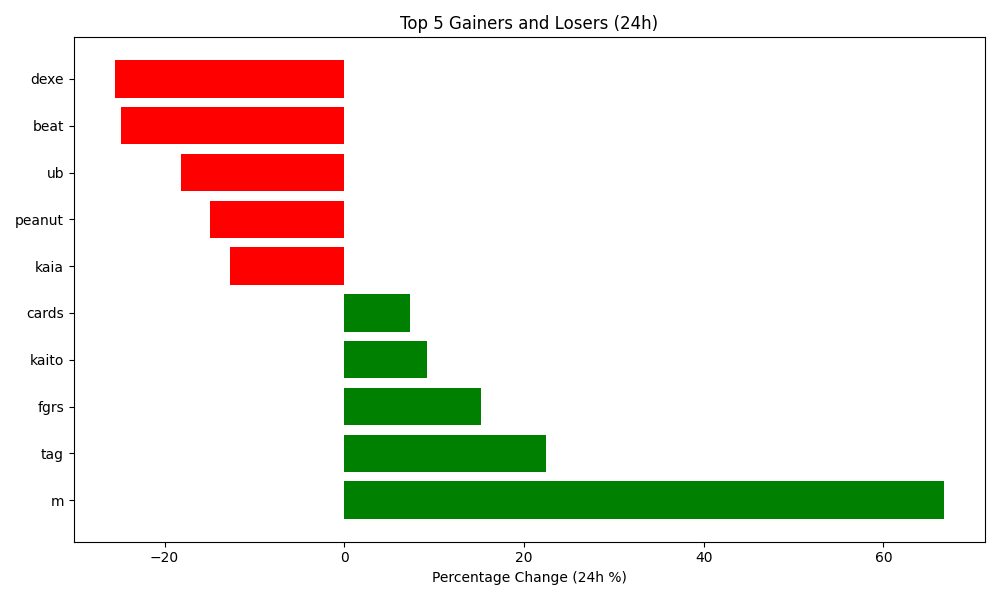
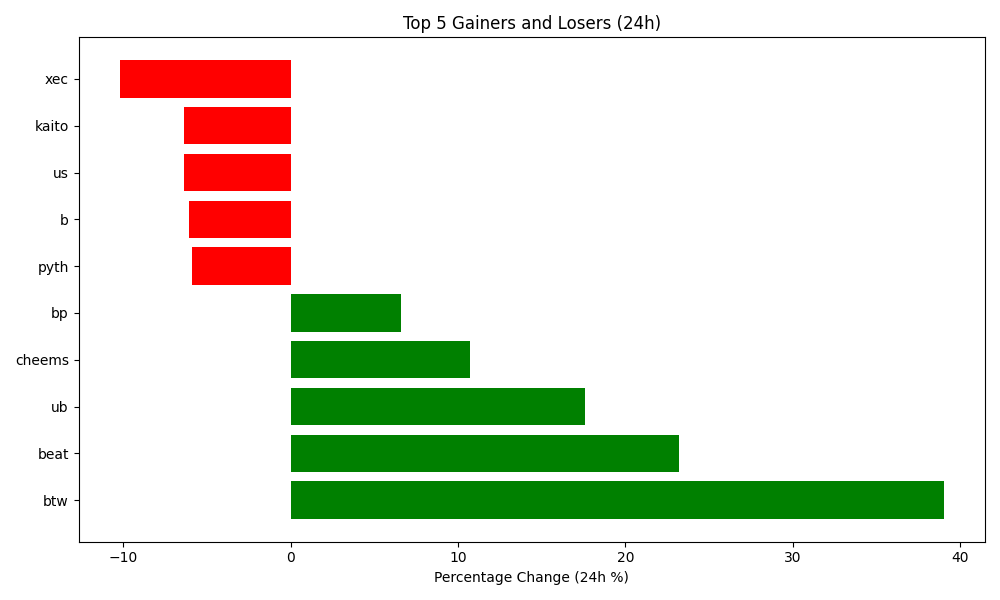
Auto-update crypto data and plot

diff --git a/README.md b/README.md
@@ -4,7 +4,7 @@ Author: Hitesh Agrawal
 This repository automatically tracks the top 5 gaining, top 5 losing, and top 5 highest volume cryptocurrencies in the last 24 hours using the CoinGecko API, Python, Matplotlib, and GitHub Actions updates the below content everyday at midnight.
 
 <!-- START_DYNAMIC_CONTENT -->
-Last updated: 2026-07-28 01:51 UTC
+Last updated: 2026-07-29 01:54 UTC
 
 ![Crypto Movers Plot](crypto_movers_plot.png)
 
@@ -12,33 +12,33 @@ Last updated: 2026-07-28 01:51 UTC
 
 | Rank | Coin | Price Change (24h %) | Volume (USD) | Current Price (USD) |
 | :--: | :--: | :------------------: | :----------: | :-----------------: |
-| 1 | m | 66.70% | $383,597 | $1.2900 |
-| 2 | tag | 22.40% | $8,078,138 | $0.0014 |
-| 3 | fgrs | 15.20% | $667 | $31.5100 |
-| 4 | kaito | 9.20% | $81,377,051 | $1.3100 |
-| 5 | cards | 7.30% | $4,044,174 | $0.1238 |
+| 1 | btw | 39.04% | $18,901,928 | $0.0889 |
+| 2 | beat | 23.20% | $47,704,871 | $3.5100 |
+| 3 | ub | 17.58% | $16,346,409 | $0.1412 |
+| 4 | cheems | 10.72% | $1,485,664 | $0.0000 |
+| 5 | bp | 6.58% | $1,631,911 | $0.4586 |
 
 
 **👇 Top 5 Losers (24h)**
 
 | Rank | Coin | Price Change (24h %) | Volume (USD) | Current Price (USD) |
 | :--: | :--: | :------------------: | :----------: | :-----------------: |
-| 1 | dexe | -25.50% | $238,570,929 | $2.9200 |
-| 2 | beat | -24.90% | $17,042,096 | $2.8800 |
-| 3 | ub | -18.20% | $13,386,987 | $0.1200 |
-| 4 | peanut | -14.90% | $2 | $0.0006 |
-| 5 | kaia | -12.70% | $8,218,651 | $0.0260 |
+| 1 | xec | -10.21% | $13,699,676 | $0.0000 |
+| 2 | kaito | -6.40% | $83,608,579 | $1.2300 |
+| 3 | us | -6.37% | $5,101,484 | $0.0426 |
+| 4 | b | -6.09% | $6,364,375 | $0.1692 |
+| 5 | pyth | -5.92% | $16,846,563 | $0.0406 |
 
 
 **💎 Top 5 by Trade Volume (24h)**
 
 | Rank | Coin | Price Change (24h %) | Volume (USD) | Current Price (USD) |
 | :--: | :--: | :------------------: | :----------: | :-----------------: |
-| 1 | usdt | 0.00% | $45,819,623,800 | $0.9992 |
-| 2 | btc | -2.80% | $26,938,517,272 | $63,234.0000 |
-| 3 | usdc | 0.00% | $12,503,987,021 | $0.9996 |
-| 4 | eth | -3.70% | $12,165,546,407 | $1,876.9600 |
-| 5 | sol | -3.80% | $1,838,046,220 | $73.2800 |
+| 1 | usdt | -0.02% | $40,597,841,478 | $0.9988 |
+| 2 | btc | 0.77% | $23,543,427,409 | $63,654.0000 |
+| 3 | usdc | 0.00% | $11,833,346,053 | $0.9999 |
+| 4 | eth | 1.66% | $9,663,945,379 | $1,905.0500 |
+| 5 | sol | 0.08% | $1,640,258,491 | $73.2900 |
 
 
 <!-- END_DYNAMIC_CONTENT -->
